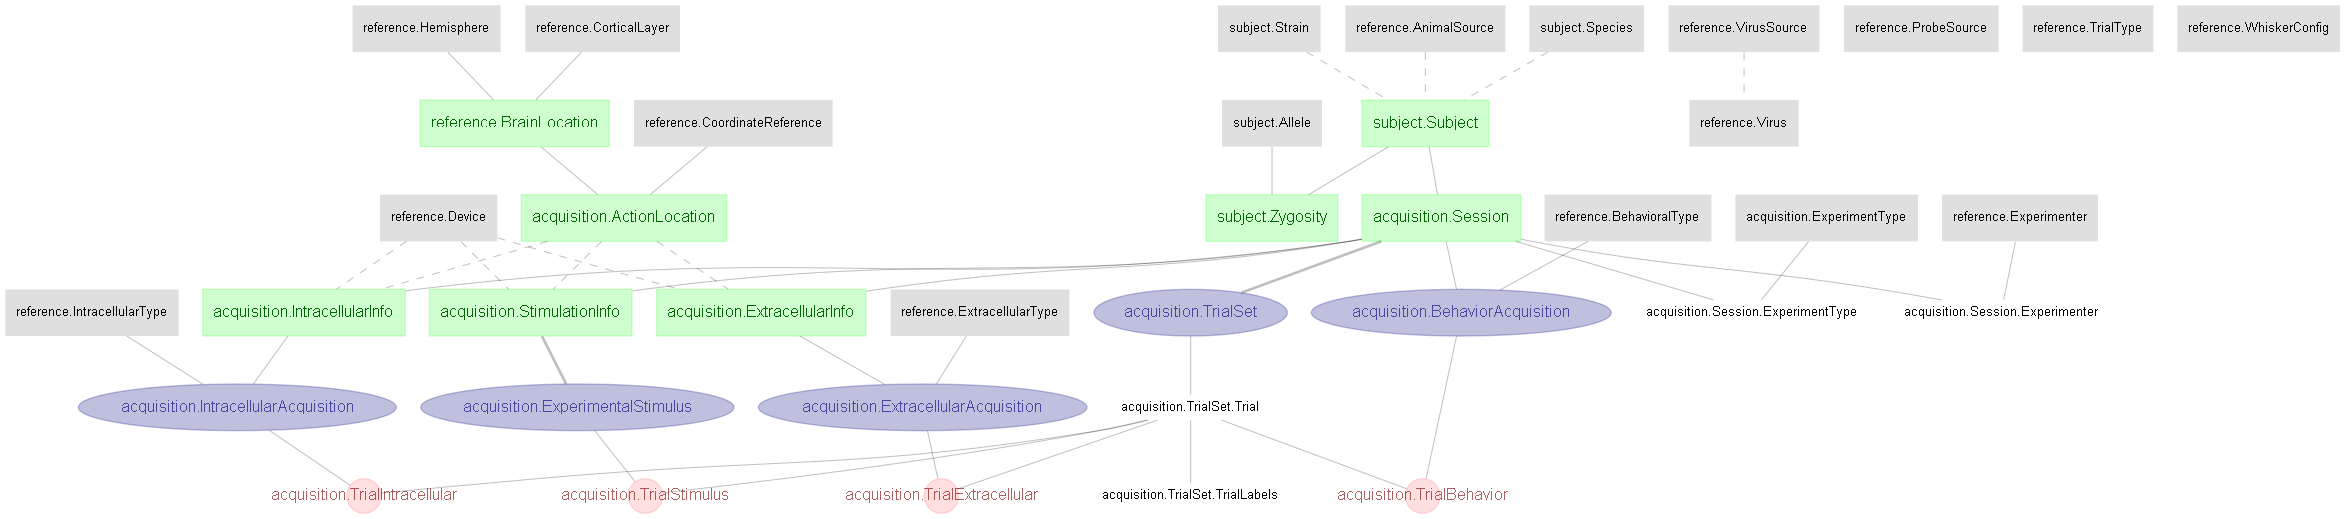
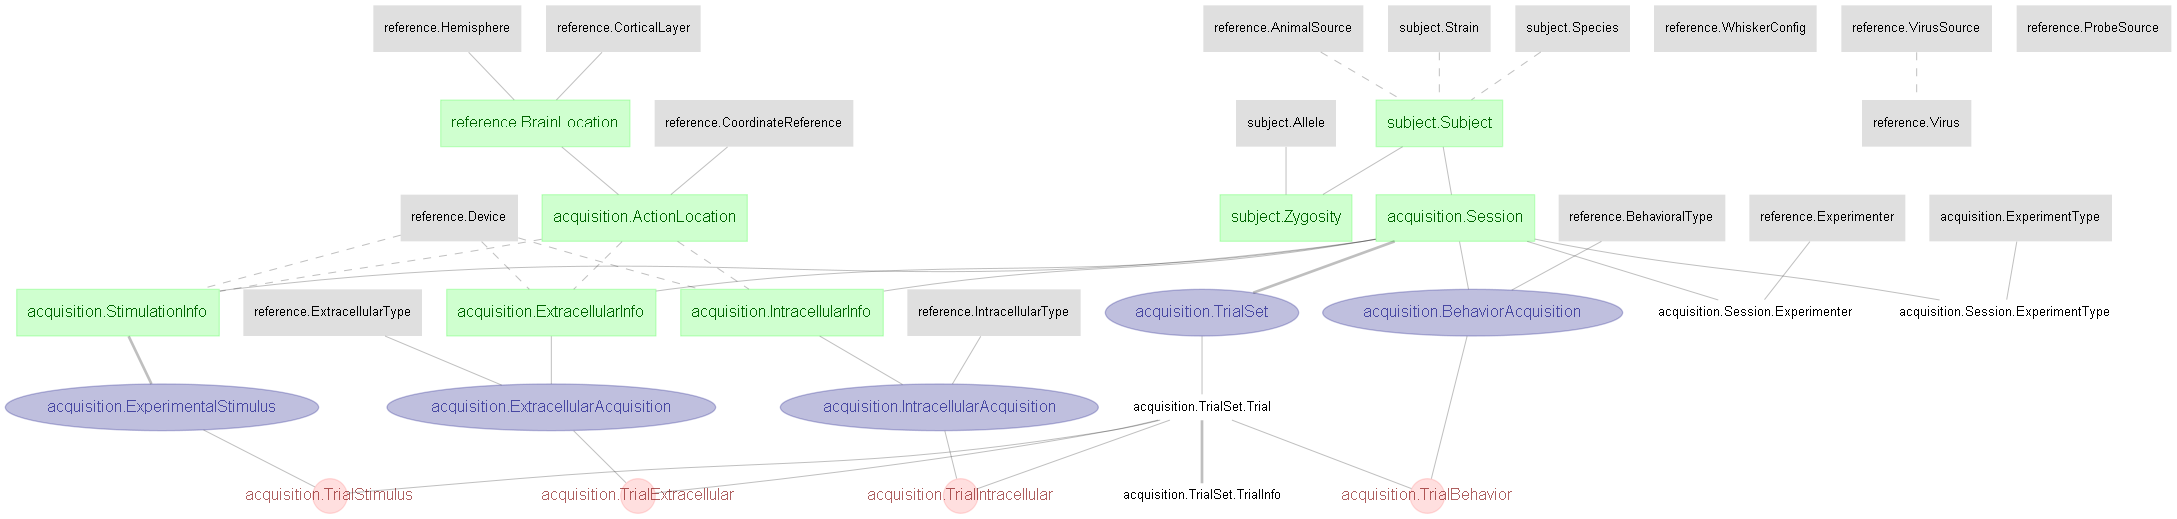
redesign trial information/labels table

diff --git a/pipeline/acquisition.py b/pipeline/acquisition.py
@@ -131,10 +131,14 @@ class TrialSet(dj.Imported):
         stop_time: float                # end time of this trial, with respect to starting point of this session
         """
         
-    class TrialLabels(dj.Part):
+    class TrialInfo(dj.Part):
         definition = """
         -> master.Trial
-        trial_type_label: varchar(32)  # label for this trial (e.g. 'No stim', 'Good', 'Bad', 'Lick Left')
+        ---
+        trial_type: enum('Lick L trial','Lick R trial') # the experimental type of this trial, e.g. Lick Left vs Lick Right
+        trial_stim_status: enum('Stim','No stim') # is this trial a Stimulation or No stimulation trial
+        trial_status: enum('good','bad') # the good/bad status of this trial
+        trial_response: enum('correct','incorrect','no response', 'early lick') # the behavioral response of this subject of this trial - correct/incorrect with respect to the trial type
         """
 
     def make(self,key):
@@ -196,9 +200,6 @@ class TrialSet(dj.Imported):
         pole_in_times = np.array(nwb['stimulus']['presentation']['pole_in']['timestamps'])
         pole_out_times = np.array(nwb['stimulus']['presentation']['pole_out']['timestamps'])
                 
-        # this is to perserve the original key for use in the part table later
-        trial_partkey = key.copy() 
-        triallabel_partkey = key.copy() 
         # form new key-values pair and insert key
         key['n_trials'] = len(trial_names)
         self.insert1(key)
@@ -207,41 +208,34 @@ class TrialSet(dj.Imported):
         
         # loop through each trial and insert
         for idx, trialId in enumerate(trial_names):
-            trial_partkey['trial_id'] = trialId
-            triallabel_partkey['trial_id'] = trialId
+            key['trial_id'] = trialId
             # -- start/stop time
-            trial_partkey['start_time'] = start_times[idx]
-            trial_partkey['stop_time'] = stop_times[idx]
+            key['start_time'] = start_times[idx]
+            key['stop_time'] = stop_times[idx]
             # -- events timing
-            trial_partkey['cue_start_time'] = cue_start_times[idx]
-            trial_partkey['cue_end_time'] = cue_end_times[idx]
-            trial_partkey['pole_in_time'] = pole_in_times[idx]
-            trial_partkey['pole_out_time'] = pole_out_times[idx]            
+            key['cue_start_time'] = cue_start_times[idx]
+            key['cue_end_time'] = cue_end_times[idx]
+            key['pole_in_time'] = pole_in_times[idx]
+            key['pole_out_time'] = pole_out_times[idx]            
             # form new key-values pair for trial_partkey and insert
-            self.Trial.insert1(trial_partkey)
+            self.Trial.insert1(key, ignore_extra_fields=True)
             print(f'{trialId} ',end="")
-
-            # ======== Now add 'trial type labels' to the TrialLabels part table ====
-            trial_labels = []  # 2brmv 
-            # - good/bad trial (nwb['analysis']['good_trials'])
-            if good_trials.flatten()[idx] == 1: 
-                triallabel_partkey['trial_type_label'] = 'good trial'
-                self.TrialLabels.insert1(triallabel_partkey)
-                trial_labels.append('good trial') # 2brmv 
-            elif good_trials.flatten()[idx] == 0: 
-                triallabel_partkey['trial_type_label'] = 'bad trial'
-                self.TrialLabels.insert1(triallabel_partkey)
-                trial_labels.append('bad trial') # 2brmv 
-            # -- trial description (nwb['epochs'][trial]['description'])
-            for d in re.split(', ',trial_descs[idx]):
-                triallabel_partkey['trial_type_label'] = d
-                self.TrialLabels.insert1(triallabel_partkey)
-                trial_labels.append(d) # 2brmv 
-            # -- trial_type_string (nwb['analysis']['trial_type_string'])
-            for i in  np.where(trial_type_mat[idx,:] == 1):
-                triallabel_partkey['trial_type_label'] = trial_type_string.flatten()[i].item(0).decode('UTF-8')
-                self.TrialLabels.insert1(triallabel_partkey)
-                trial_labels.append(trial_type_string.flatten()[i].item(0).decode('UTF-8')) # 2brmv 
+            # ======== Now add trial descriptors to the TrialInfo part table ====
+            # - good/bad trial_status (nwb['analysis']['good_trials'])
+            key['trial_status'] = 'good' if good_trials.flatten()[idx] == 1 else 'bad'
+            # - trial_type and trial_stim_status (nwb['epochs'][trial]['description']) 
+            key['trial_type'], key['trial_stim_status'] =  re.split(', ',trial_descs[idx])
+            # - trial_response (nwb['analysis']['trial_type_string'])
+            # note, the last type_string value is duplicated info of "stim"/"no stim" above, so ignore it here (hence the [idx,:-1])
+            match_idx = np.where(trial_type_mat[idx,:-1] == 1)
+            trial_response =  trial_type_string.flatten()[match_idx].item(0).decode('UTF-8')
+            if re.search('correct',trial_response.lower()) is not None:
+                trial_response = 'correct'
+            elif re.search('incorrect',trial_response.lower()) is not None:
+                trial_response = 'incorrect'
+            key['trial_response'] = trial_response.lower()
+            # insert
+            self.TrialInfo.insert1(key, ignore_extra_fields=True)
         print('')
     
     

diff --git a/scripts/ingest_nwb_wholecell.py b/scripts/ingest_nwb_wholecell.py
@@ -24,7 +24,7 @@ from pipeline.helper_functions import parse_prefix
 #all_erd.save('./images/all_erd.png')
 
 # Merge all schema and generate the overall ERD (then save in "/images")
-core_erd = dj.ERD(reference) + dj.ERD(subject) + dj.ERD(acquisition) 
+core_erd = dj.ERD(reference) + dj.ERD(subject) + dj.ERD(acquisition)
 core_erd.save('./images/core_erd.png')
 
 ############## Dataset #################
